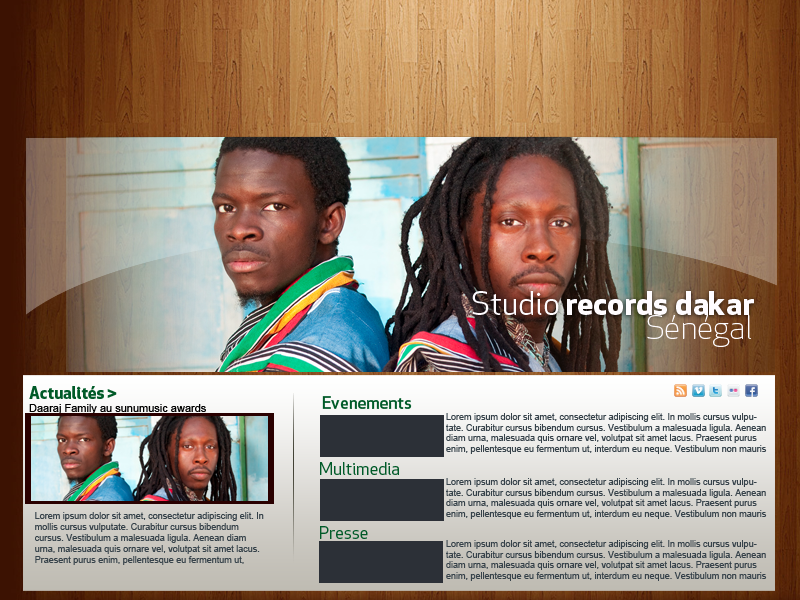
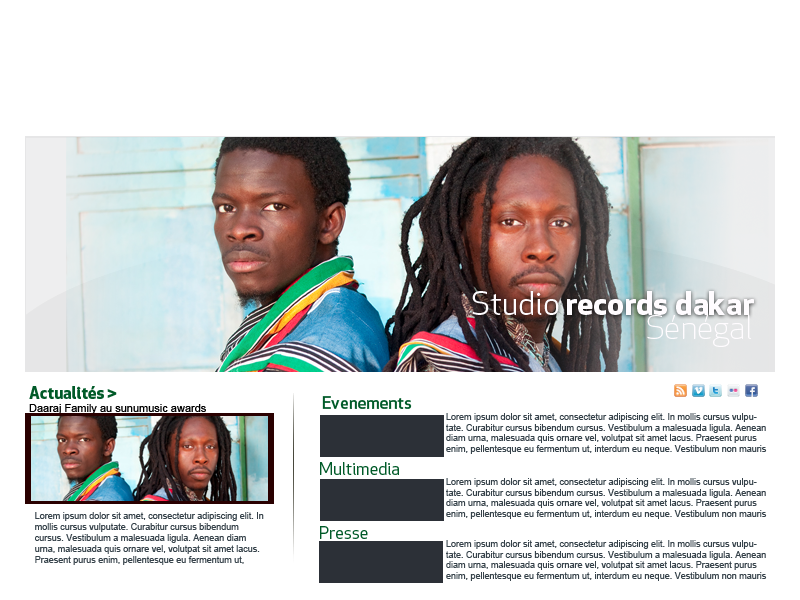
Intégration Acuueil ok

diff --git a/site/squelettes/sommaire.html b/site/squelettes/sommaire.html
@@ -14,72 +14,49 @@
 
 	[(#REM) Entete de la page + titre du site ]
 	<INCLURE{fond=inc-entete}>
-
+<div id="banner">
+	<img src="IMG/bois_sac/banner.png" alt="banner" title="banner">
+</div>
 <div id="corps">
 	[(#REM) Contenu principal : derniers articles publies ]
 	<div class="hfeed" id="conteneur">
 	<div id="contenu">
-		
-		<div class="cartouche invisible">
-			<h1 class="invisible">#NOM_SITE_SPIP</h1>
-		</div>
-		
-		[<div class="chapo">(#DESCRIPTIF_SITE_SPIP)</div>]
-		
-		[(#REM) Derniers articles ]
-		<B_articles_recents>
+	<div id="suivre">
+		<ul>
+			<li><a href="#"><img src="IMG/bois_sac/logo_rss.png" alt="rss" title="rss"></a></li>
+			<li><a href="#"><img src="IMG/bois_sac/logo_vimeo.png" alt="vimeo" title="vimeo"></a></li>
+			<li><a href="#"><img src="IMG/bois_sac/logo_twitter.png" alt="twitter" title="twitter"></a></li>
+			<li><a href="#"><img src="IMG/bois_sac/logo_flirck.png" alt="flirck" title="flirck"></a></li>
+			<li><a href="#"><img src="IMG/bois_sac/logo_facebook.png" alt="facebook" title="facebook"></a></li>
+		</ul>
+	</div>
 		<div class="menu articles">
-			[(#ANCRE_PAGINATION)]
-			<h2><:derniers_articles:></h2>
 			<ul>
-				<BOUCLE_articles_recents(ARTICLES) {par date}{inverse} {pagination 5}>
 				<li class="hentry">
-					[(#LOGO_ARTICLE_RUBRIQUE{#URL_ARTICLE}|image_reduire{150,100})]
-					<h3 class="entry-title"><a href="#URL_ARTICLE" rel="bookmark">#TITRE</a></h3>
-					<small><abbr class="published"[ title="(#DATE|date_iso)"]>[(#DATE|affdate_jourcourt)]</abbr>[, <:par_auteur:> (#LESAUTEURS)]</small>
-					[<div class="#EDIT{intro} introduction entry-content">(#INTRODUCTION)</div>]
+					<h3 class="entry-title"><a href="#" rel="bookmark">Evenements</a></h3>
+					
+					<div class="introduction">
+					<img src="IMG/bois_sac/photo02.jpg" alt="photo02" title="photo02">
+					Quand l’Afrique est votre berceau et Dakar votre terrain de jeu, quand la bande son de votre enfance mêle aussi bien la musique traditionnelle du Sénégal ... 
+					</div>
+					<li class="hentry">
+					<h3 class="entry-title"><a href="#" rel="bookmark">Multimedia</a></h3>
+					
+					<div class="introduction">
+					<img src="IMG/bois_sac/photo02.jpg" alt="photo02" title="photo02">
+					Quand l’Afrique est votre berceau et Dakar votre terrain de jeu, quand la bande son de votre enfance mêle aussi bien la musique traditionnelle du Sénégal ... 
+					</div>
+					<li class="hentry">
+					<h3 class="entry-title"><a href="#" rel="bookmark">Presse</a></h3>
+					
+					<div class="introduction">
+					<img src="IMG/bois_sac/photo02.jpg" alt="photo02" title="photo02">
+					Quand l’Afrique est votre berceau et Dakar votre terrain de jeu, quand la bande son de votre enfance mêle aussi bien la musique traditionnelle du Sénégal ... 
+					</div>
 				</li>
-				</BOUCLE_articles_recents>
 			</ul>
-			[<p class="pagination">(#PAGINATION)</p>]
 		</div>
-		</B_articles_recents>
 		
-		[(#REM) Breves ]
-		<B_breves>
-		<div class="menu">
-			<h2><:dernieres_breves:></h2>
-			<ul>
-				<BOUCLE_breves(BREVES) {par date}{inverse} {0,5}>
-				<li>[(#DATE|affdate_jourcourt) &ndash; ]<a href="#URL_BREVE">#TITRE</a></li>
-				</BOUCLE_breves>
-			</ul>
-		</div>
-		</B_breves>
-		
-		[(#REM) Liens des forums ]
-		<B_forums_liens>
-		<div class="menu">
-			<h2><:derniers_commentaires:></h2>
-			<ul>
-				<BOUCLE_forums_liens(FORUMS) {plat} {par date}{inverse} {0,8}>
-				<li>[(#DATE|affdate_jourcourt) &ndash; ]<a href="#URL_FORUM"[ title="(#TITRE|attribut_html|couper{80})"]>[(#TEXTE|couper{80})]</a></li>
-				</BOUCLE_forums_liens>
-			</ul>
-		</div>
-		</B_forums_liens>
-		
-		[(#REM) Sur le Web ]
-		<B_syndic>
-		<div class="menu">
-			<h2><:nouveautes_web:></h2>
-			<ul>
-				<BOUCLE_syndic(SYNDIC_ARTICLES) {age<180} {par date}{inverse} {0,6}>
-				<li>[(#DATE|affdate_jourcourt) &ndash; ]<a href="#URL_ARTICLE"[ title="(#NOM_SITE|attribut_html|couper{80})"] class="spip_out">#TITRE</a></li>
-				</BOUCLE_syndic>
-			</ul>
-		</div>
-		</B_syndic>
 	
 	</div><!--#contenu-->
 	</div><!--#conteneur-->
@@ -87,12 +64,11 @@
 	[(#REM) Menu de navigation laterale ]
 	<div id="navigation">
 		
-		[(#REM) Menu de navigation par rubriques ]
-		<INCLURE{fond=inc-rubriques}>
-		
-		#FORMULAIRE_RECHERCHE
-
-    </div><!--#navigation-->
+		<h1><a href="#" rel="bookmark">Actualités ></a></h1>
+		<h4>Daaraj Family au sunumusic awards</h4>
+		<img src="IMG/bois_sac/photo01.jpg" alt="photo01" title="photo01">
+		Quand l’Afrique est votre berceau et Dakar votre terrain de jeu, quand la bande son de votre enfance mêle aussi bien la musique traditionnelle du Sénégal que James Brown ou les Pink Floyd, quand la déflagration Public Ennemy change radicalement votre vision de 
+	</div><!--#navigation-->
 <div><!--#corps-->
 	
 	[(#REM) Menu de navigation laterale ]

diff --git a/site/squelettes/habillage.css b/site/squelettes/habillage.css
@@ -7,7 +7,7 @@
 /* Typographie generale (style transversaux)
 /* ------------------------------------------ */
 html { font-size: 100%; } /* Cf.: http://pompage.net/pompe/definir-des-tailles-de-polices-en-CSS/ */
-body { font-size: 0.8125em; font-family: "Luxi sans", "Lucida Grande", Lucida, "Lucida Sans Unicode", sans-serif; color: #333; }
+body { font-size: 0.74em; font-family: "Luxi sans", "Lucida Grande", Lucida, "Lucida Sans Unicode", sans-serif; color: #333; }
 
 /* Titraille / Intertitres */
 h1,h2,h3,h4,h5,h6 { margin: 0; padding: 0; font-weight: normal; font-size: 1em; font-family: Georgia, Times, serif; }
@@ -64,19 +64,19 @@ img { margin: 0; padding: 0; border: 0; }
 /* ------------------------------------------ */
 body { background: #FFF; margin: 0; padding: 0; text-align: center; }
 
-#page { position: relative; width: 58em; margin: 0 auto; text-align: left; }
+#page { position: relative; width: 759px; margin: 0 auto; text-align: left; }
 
-#entete { width: 58em; margin: 0; padding-top: 0; float: left;}
+#entete { width: 100%; margin: 0; padding-top: 0; float: left;}
 #entete a.accueil { display: block; width: 67%; }
 #entete a.accueil img.spip_logos { vertical-align: bottom; line-height: 1em; }
 #entete a.accueil #nom_site_spip { vertical-align: bottom; font-size: 2.2em; font-family: Georgia, Times, serif; font-weight: normal; }
 #entete .formulaire_menu_lang { position: absolute; right: 0; top: 0.90em; display: block; width: 30%; } /*Cf.: spip_formulaires.css*/
 
-#conteneur { clear: both; float: left; width: 67%; overflow: hidden; }
+#conteneur { clear: both; float: right; width: 64%; overflow: hidden; }
 #contenu { padding-top: 0.30em; }
 
-#navigation { float: right; width: 30%; margin-top: 1em; overflow: hidden; }
-#extra { float: right; clear: right; width: 30%; margin-top: 1em; overflow: hidden; }
+#navigation { float: left; width: 35%; margin-top: 1em; overflow: hidden;padding-left: 6px;}
+#extra { float: left; clear: right; width: 35%; margin-top: 1em; overflow: hidden; }
 
 #pied { clear: both; width: 100%; margin: 0; padding: 0.40em 0; border-top: 1px solid #8B6F92; text-align: center; font-size: 0.90em; }
 #pied img { vertical-align: middle; }
@@ -196,5 +196,5 @@ ul ul ul ul ul .forum-chapo { background: #FFF; }
 
 /* Couleurs des liens
 ---------------------------------------------- */
-a { color: #604A7F; text-decoration: none; }
+a { color: #005A28; text-decoration: none; }
 a:focus,a:hover,a:active { color: #F57900; text-decoration: underline; }

diff --git a/site/squelettes/bois_sac.css b/site/squelettes/bois_sac.css
@@ -20,7 +20,6 @@ background-position: top center;
 #entete #nav{
 	background-image:url("../IMG/bois_sac/fond_menu.jpg");
 	background-repeat: repeat-x;
-	width: 752px;
 	height: 46px;
 	margin-top: 77px;
 }
@@ -48,6 +47,14 @@ background-position: top center;
 	font-size: 1em;
 	color: #000000;	
 }
+/*** banner ***/
+#banner {
+	margin-bottom:3px;
+	width: 100%;
+	text-align: center;
+}
+
+
 /*** corps ***/
 #corps{
 	background-image:url("../IMG/bois_sac/fond_corps.jpg");
@@ -55,4 +62,36 @@ background-position: top center;
 	background-color: #BFBBB2;
 	width: 100%;
 	float: left;
+}
+.page_sommaire #page #corps #conteneur #contenu #suivre {
+	float: right;
+	padding:0 10px 0 0;
+	margin: 0;
+}
+.page_sommaire #page #corps #conteneur #contenu #suivre ul li{
+	display: inline;
+	float: left;
+	margin-left:2px;
+	margin-right:2px;
+}
+.page_sommaire #page #corps #contenu div.introduction img{
+	float: left;
+	margin-right:4px;
+	margin-bottom:4px;
+}
+
+.page_sommaire #page #corps #contenu div.menu ul{
+	border:0;
+}
+
+.page_sommaire #page #corps #contenu div.menu ul li{
+	border:0;
+}
+
+/*** navigation ***/
+#navigation img {
+	border-top :2px solid #2A0000;
+	border-bottom :2px solid #2A0000;
+	border-right :6px solid #2A0000;
+	border-left :6px solid #2A0000;
 }
